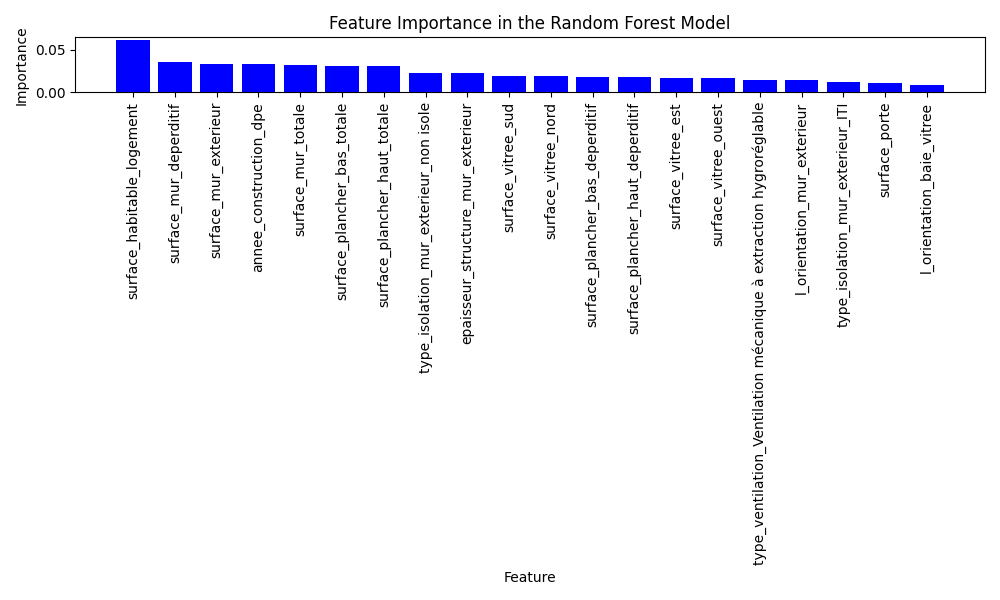
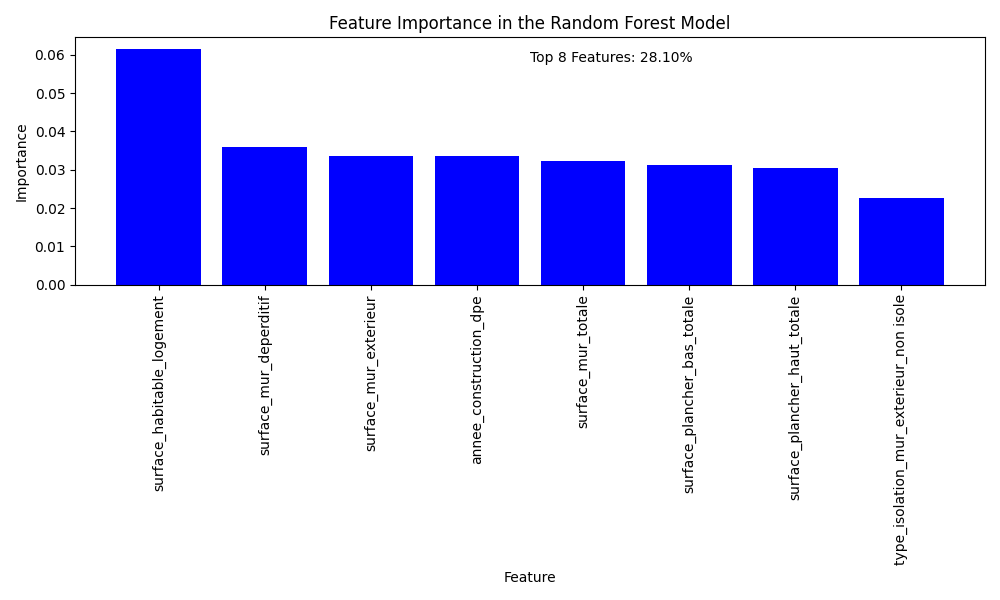
transformation du code

diff --git a/src/models/train_model.py b/src/models/train_model.py
@@ -3,7 +3,10 @@ import pandas as pd
 import numpy as np
 from sklearn.neighbors import KNeighborsClassifier
 from pandas.api.types import is_numeric_dtype
-from sklearn.preprocessing import MinMaxScaler
+from sklearn.preprocessing import StandardScaler
+from sklearn.metrics import accuracy_score,roc_auc_score,log_loss
+from sklearn.model_selection import train_test_split
+import matplotlib.pyplot as plt
 class Models:
 
     """
@@ -41,21 +44,65 @@ class Models:
         # Training DataFrame
         self.dataframe = dataframe
 
+        # Test DataFrame
+        self.individual_features = individual_features
+
+        self.dependent_variable = self.dataframe.iloc[:, 0].values
+        self.independent_variable = self.dataframe.iloc[:, 1:].values
+        self.np_individual_features = self.individual_features.iloc[:, 1:].values
+
+    def standardize_training_data(self):
+        # Sélectionnez uniquement les colonnes numériques du DataFrame d'entraînement
+        numeric_columns = self.dataframe.select_dtypes(include=['number']).columns
+
+        # Créez un objet StandardScaler
+        scaler = StandardScaler()
+
+        # Appliquez la standardisation aux colonnes numériques du DataFrame d'entraînement
+        self.dataframe[numeric_columns] = scaler.fit_transform(self.dataframe[numeric_columns])
+
         # Dependent variable
         self.dependent_variable = self.dataframe.iloc[:, 0].values
 
         # Independent variables
         self.independent_variable = self.dataframe.iloc[:, 1:].values
 
-        # Test DataFrame
-        self.individual_features = individual_features
+    def standardize_test_data(self):
+        # Assurez-vous que les colonnes numériques du DataFrame de test ont la même standardisation
+        # que les colonnes numériques du DataFrame d'entraînement
 
+        # Sélectionnez uniquement les colonnes numériques du DataFrame de test
+        numeric_columns_test = self.individual_features.select_dtypes(include=['number']).columns
+
+        # Créez un objet StandardScaler
+        scaler = StandardScaler()
+
+        # Appliquez la standardisation aux colonnes numériques du DataFrame de test
+        self.individual_features[numeric_columns_test] = scaler.fit_transform(self.individual_features[numeric_columns_test])
+        
         # Independent variables of the test individual
-        self.np_individual_features = individual_features.iloc[:, 1:].values
-        
-        
+        self.np_individual_features = self.individual_features.iloc[:, 1:].values
 
-    def k_neighbors(self):
+    def metric_knn(self):
+        # Initialisez une liste pour stocker les scores d'exactitude
+        X_train, X_test, y_train, y_test = train_test_split(self.independent_variable,self.dependent_variable, test_size=0.3, random_state=42)
+        roc_auc_scores = []
+        # Testez différentes valeurs de k
+        for k in range(1, 50):  # Vous pouvez ajuster la plage selon vos besoins
+            knn = KNeighborsClassifier(n_neighbors=k)
+            knn.fit(X_train, y_train)
+            y_prob = knn.predict(X_test)  # Probabilité de la classe positive
+            roc_auc = accuracy_score(y_test, y_prob)
+            roc_auc_scores.append(round(roc_auc, 2))
+        print(roc_auc_scores)
+
+        best_k_index = roc_auc_scores.index(max(roc_auc_scores))
+
+# Récupérer la valeur de k correspondante
+        best_k = range(1, 100)[best_k_index]
+        return best_k
+    
+    def k_neighbors(self, best_k):
         """
         Creates a k_neighbors algorithm based on property data.
 
@@ -76,17 +123,8 @@ class Models:
 
         """
         # Instance of k-neighbors with 3 close individuals
-        neigh = KNeighborsClassifier(n_neighbors=3)
+        neigh = KNeighborsClassifier(n_neighbors=best_k)
         
-        
-        #! make a function then implement
-        scaler = MinMaxScaler()
-
-        # Normalization of data on properties dataset
-        self.independent_variable = scaler.fit_transform(self.independent_variable)
-
-        # Transform customer dataset
-        self.np_individual_features = scaler.transform(self.np_individual_features)
         
         # Training data on the training database
         neigh.fit(self.independent_variable, self.dependent_variable)
@@ -94,26 +132,20 @@ class Models:
         # Prediction on the test individual data
         prediction = neigh.predict(self.np_individual_features)
         proba = neigh.predict_proba(self.np_individual_features)
-
+        print(self.individual_features.iloc[:,0].ravel())
+        print(prediction)
+        score = accuracy_score(self.individual_features.iloc[:,0], prediction)
+        print(score)
         # make a function to get prediction for 1 class and a function to predict for 2 class
         # Obtenir les indices triés des classes par probabilité décroissante
         sorted_class_indices = np.argsort(proba[0])[::-1]
 
         # Sélectionner les deux classes les mieux représentées
-        top_classes = sorted_class_indices[:2]
-
+        top_classes = sorted_class_indices[:3]
+        print(top_classes)
         # Afficher les résultats
-        for i,e in zip(top_classes,self.dataframe.iloc[:, 0]):
-            print(f"{e}: {proba[0][i] * 100:.2f}%")
-
-        # Output exemple :
-        # Classe 1: 66.67%
-        # Classe 0: 33.33%
-
-            
-        # Creation and display of the prediction reliability score
-        score = neigh.score(self.independent_variable, self.dependent_variable)
-        print(f"Model Accuracy: {score}")
+        for class_index in top_classes:
+            print(f"{class_index}: {proba[0][class_index] * 100:.2f}%")
 
         # Returning a DataFrame with the prediction and independent variables of the test individual
         self.independant_variable_test = self.np_individual_features.flatten()

diff --git a/src/data/preprocessing.py b/src/data/preprocessing.py
@@ -30,6 +30,7 @@ class CustomProcessing:
         # Keep columns that are object types
         self.object_columns = self.dataframe.select_dtypes(include=['object']).columns
         self.numeric_columns = self.dataframe.select_dtypes(include=['number']).columns
+
     def ordinal_var(self,dataframe):
         self.dataframe_var = dataframe.iloc[:, 0]
         label_encoder = LabelEncoder()
@@ -45,14 +46,17 @@ class CustomProcessing:
     def fit_transform(self,dataframe):
         # Transform the object columns and create new one-hot encoded columns
         self.encoder.fit(self.dataframe[self.object_columns])
+
         encoded_data = self.encoder.transform(dataframe[self.object_columns])
         # Create a DataFrame with the encoded data
         encoded_df = pd.DataFrame(encoded_data, columns=self.encoder.get_feature_names_out(self.object_columns)).reset_index(drop=True)
         
         df = dataframe.drop(self.object_columns,axis=1)
         df = df.reset_index(drop=True)
+
         # Concatenate the encoded DataFrame with the original DataFrame
         result_df = pd.concat([self.ordinal_var(df), encoded_df], axis=1)
+
         return result_df
 
     def transform(self, dataframe):
@@ -62,14 +66,15 @@ class CustomProcessing:
         assert isinstance(dataframe, pd.DataFrame)
 
         # Create a DataFrame with the transformed data
-        encoded_data = self.encoder.transform(dataframe[self.object_columns]).toarray()
+        encoded_data = self.encoder.transform(dataframe[self.object_columns])
         # Create a DataFrame with the encoded data
         encoded_df = pd.DataFrame(encoded_data, columns=self.encoder.get_feature_names_out(self.object_columns)).reset_index(drop=True)
         
         df = dataframe.drop(self.object_columns,axis=1)
         df = df.reset_index(drop=True)
+
         # Concatenate the encoded DataFrame with the original DataFrame
-        result_df = pd.concat([self.ordinal_var(df), encoded_df], axis=1)
+        result_df = pd.concat([df, encoded_df], axis=1)
         
         return result_df
 
@@ -95,7 +100,9 @@ class CustomProcessing:
 
         # Inversez la transformation uniquement pour les colonnes sélectionnées
         inverse_encoded = self.encoder.inverse_transform(df_test[cols_transformed])
+
         df_test[self.object_columns] = inverse_encoded
+
         return df_test
     
     def column_selection(self,cols):
@@ -112,18 +119,4 @@ class CustomProcessing:
         # Appliquer le split si l'underscore existe, sinon ajouter la colonne telle quelle
         list_cols = list(set(list_cols))
         return list_cols
-
-
-        # # Check if the columns are present in the DataFrame
-        # for col in df_test.columns:
-        #     if col in cols:
-        #         print(col)
-        #     # # Inverse transform only specific columns
-        #         original_col = col.split('_')[0]
-    
-        #         # Transformation inverse avec LabelEncoder
-        #         df_test[col] = self.encoder.fit_transform(df_test[original_col])
-                
-            #     # Replace the one-hot encoded column with the inverse transformed values
-            #     df_test[col] = df_test
 

diff --git a/src/app.py b/src/app.py
@@ -13,44 +13,53 @@ def app():
     start = time.time()
 
     # Import database
-    properties = clean_df("src/data/database/Base_clean.csv")
-    new_variable = importation_excel("src/formulaire.xlsm", "Source")
+    properties = clean_df("src/data/database/df_clean.csv")
+    # new_variable = importation_excel("src/formulaire.xlsm", "Source")
+
     # Instance of the processing framework and data training on properties for encoding
     cpp_p_selection = CustomProcessing(properties)
     properties = cpp_p_selection.fit_transform(properties)
-    print(properties)
+
     # Selection of important variables, encoding must have been done beforehand
-    nb_features = 20
+    nb_features = 8
     columns_important, importance = select_features(properties, nb_features)
-    print(columns_important)
+
     plot_feature_importance(importance, nb_features)
 
     col = cpp_p_selection.column_selection(columns_important)
     cpp_p_selection.inverse_transform(properties)
-    print(col)
+
     properties.to_csv("src/data/database/try.csv")
-    properties = properties[col]
-    
+    if 'classe_bilan_dpe' in col:
+    # Sélectionnez toutes les colonnes, mais avec 'classe_bilan_dpe' en premier
+        ordered_columns = ['classe_bilan_dpe'] + [col for col in col if col != 'classe_bilan_dpe']
 
+    # Réorganisez les colonnes du DataFrame
+        properties_selected = properties[ordered_columns]
+    
+    new_variable = properties_selected.sample(1)
+    print(new_variable)
     # Instance of the processing framework and data training on properties for encoding after selection
-    cpp_kneigh = CustomProcessing(properties)
-    cpp_kneigh.fit()
+    cpp_kneigh = CustomProcessing(properties_selected)
 
-    cpp_kneigh.transform(properties)
-    cpp_kneigh.transform(new_variable)
-    
-
+    properties_selected = cpp_kneigh.fit_transform(properties_selected)
+    new_variable = cpp_kneigh.transform(new_variable)
     # Create the graph of importances in the selection model
 
     # Instance and training of k_neighbors on the encoded data
-    individual,proba = Models(properties, new_variable).k_neighbors()
+    knn_model = Models(properties_selected, new_variable)
+    print(new_variable)
+    # knn_model.standardize_training_data()
+    # knn_model.standardize_test_data()
+    best_k = knn_model.metric_knn()
+    individual,proba = knn_model.k_neighbors(best_k)
     # individual.columns = new_variable.columns
 
     # Restoration of a human-readable dataframe
     # Predicted value of k_neighbors
     cpp_kneigh.inverse_transform(individual)
     individual = individual.iloc[:, 0].values.flatten()[0]
-    file_path = os.path.join('/home/gbar-dev/Documents/Programs/DIGITAL_PROJECT3/src/data/database/', 'prediction.txt')
+    file_path = os.path.join('src/data/database/', 'prediction.txt')
 
     # Open the file in write mode (w), if it does not exist, it will be created
     with open(file_path, 'w') as text_file:

diff --git a/src/visualization/importance_feature_graph.py b/src/visualization/importance_feature_graph.py
@@ -31,5 +31,12 @@ def plot_feature_importance(importances_df, nb_feature):
     plt.xticks(rotation=90)
     plt.tight_layout()
 
+    # Calcul du pourcentage total d'importance représenté par les caractéristiques les plus importantes
+    total_importance = importances_df['Importance'].sum()
+    top_features_importance = importances_df.iloc[:nb_feature]['Importance'].sum()  
+    percentage = (top_features_importance / total_importance) * 100
+
+    # Ajout du texte indiquant le pourcentage total d'importance représenté par les caractéristiques les plus importantes
+    plt.annotate(f"Top {nb_feature} Features: {percentage:.2f}%", xy=(0.5, 0.9), xycoords='axes fraction')
     # Add text indicating the total percentage of importance represented by the most important features
     plt.savefig("docs/features_importance.png")

diff --git a/src/models/selection.py b/src/models/selection.py
@@ -59,5 +59,6 @@ def select_features(dataframe, num_features):
 
     # Creating the resulting DataFrame with the selected features
     selected_dataframe = pd.concat([dependent_variable, independent_variables[selected_features]], axis=1)
+
     assert isinstance(selected_dataframe, pd.DataFrame), "The result must be a DataFrame."
     return selected_dataframe.columns, importances_df
